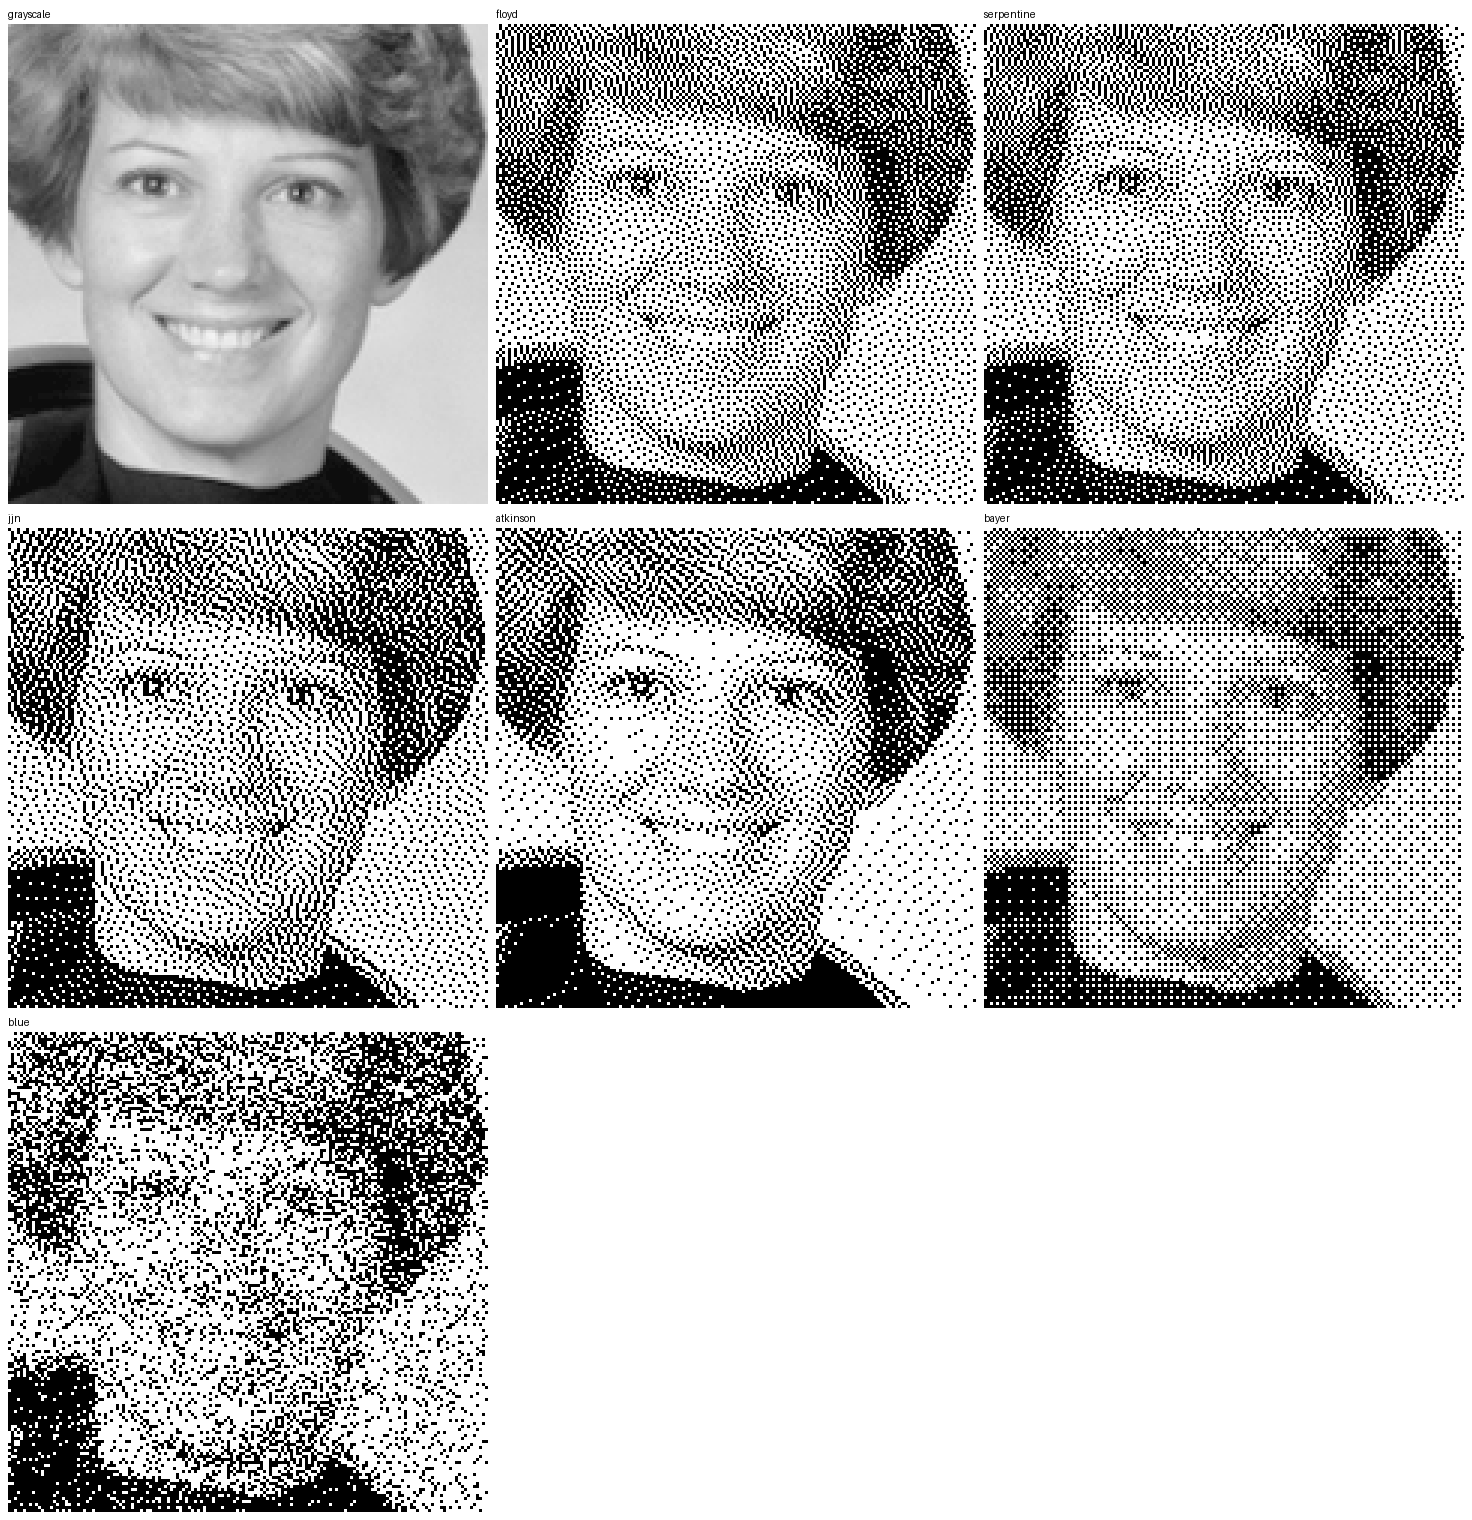
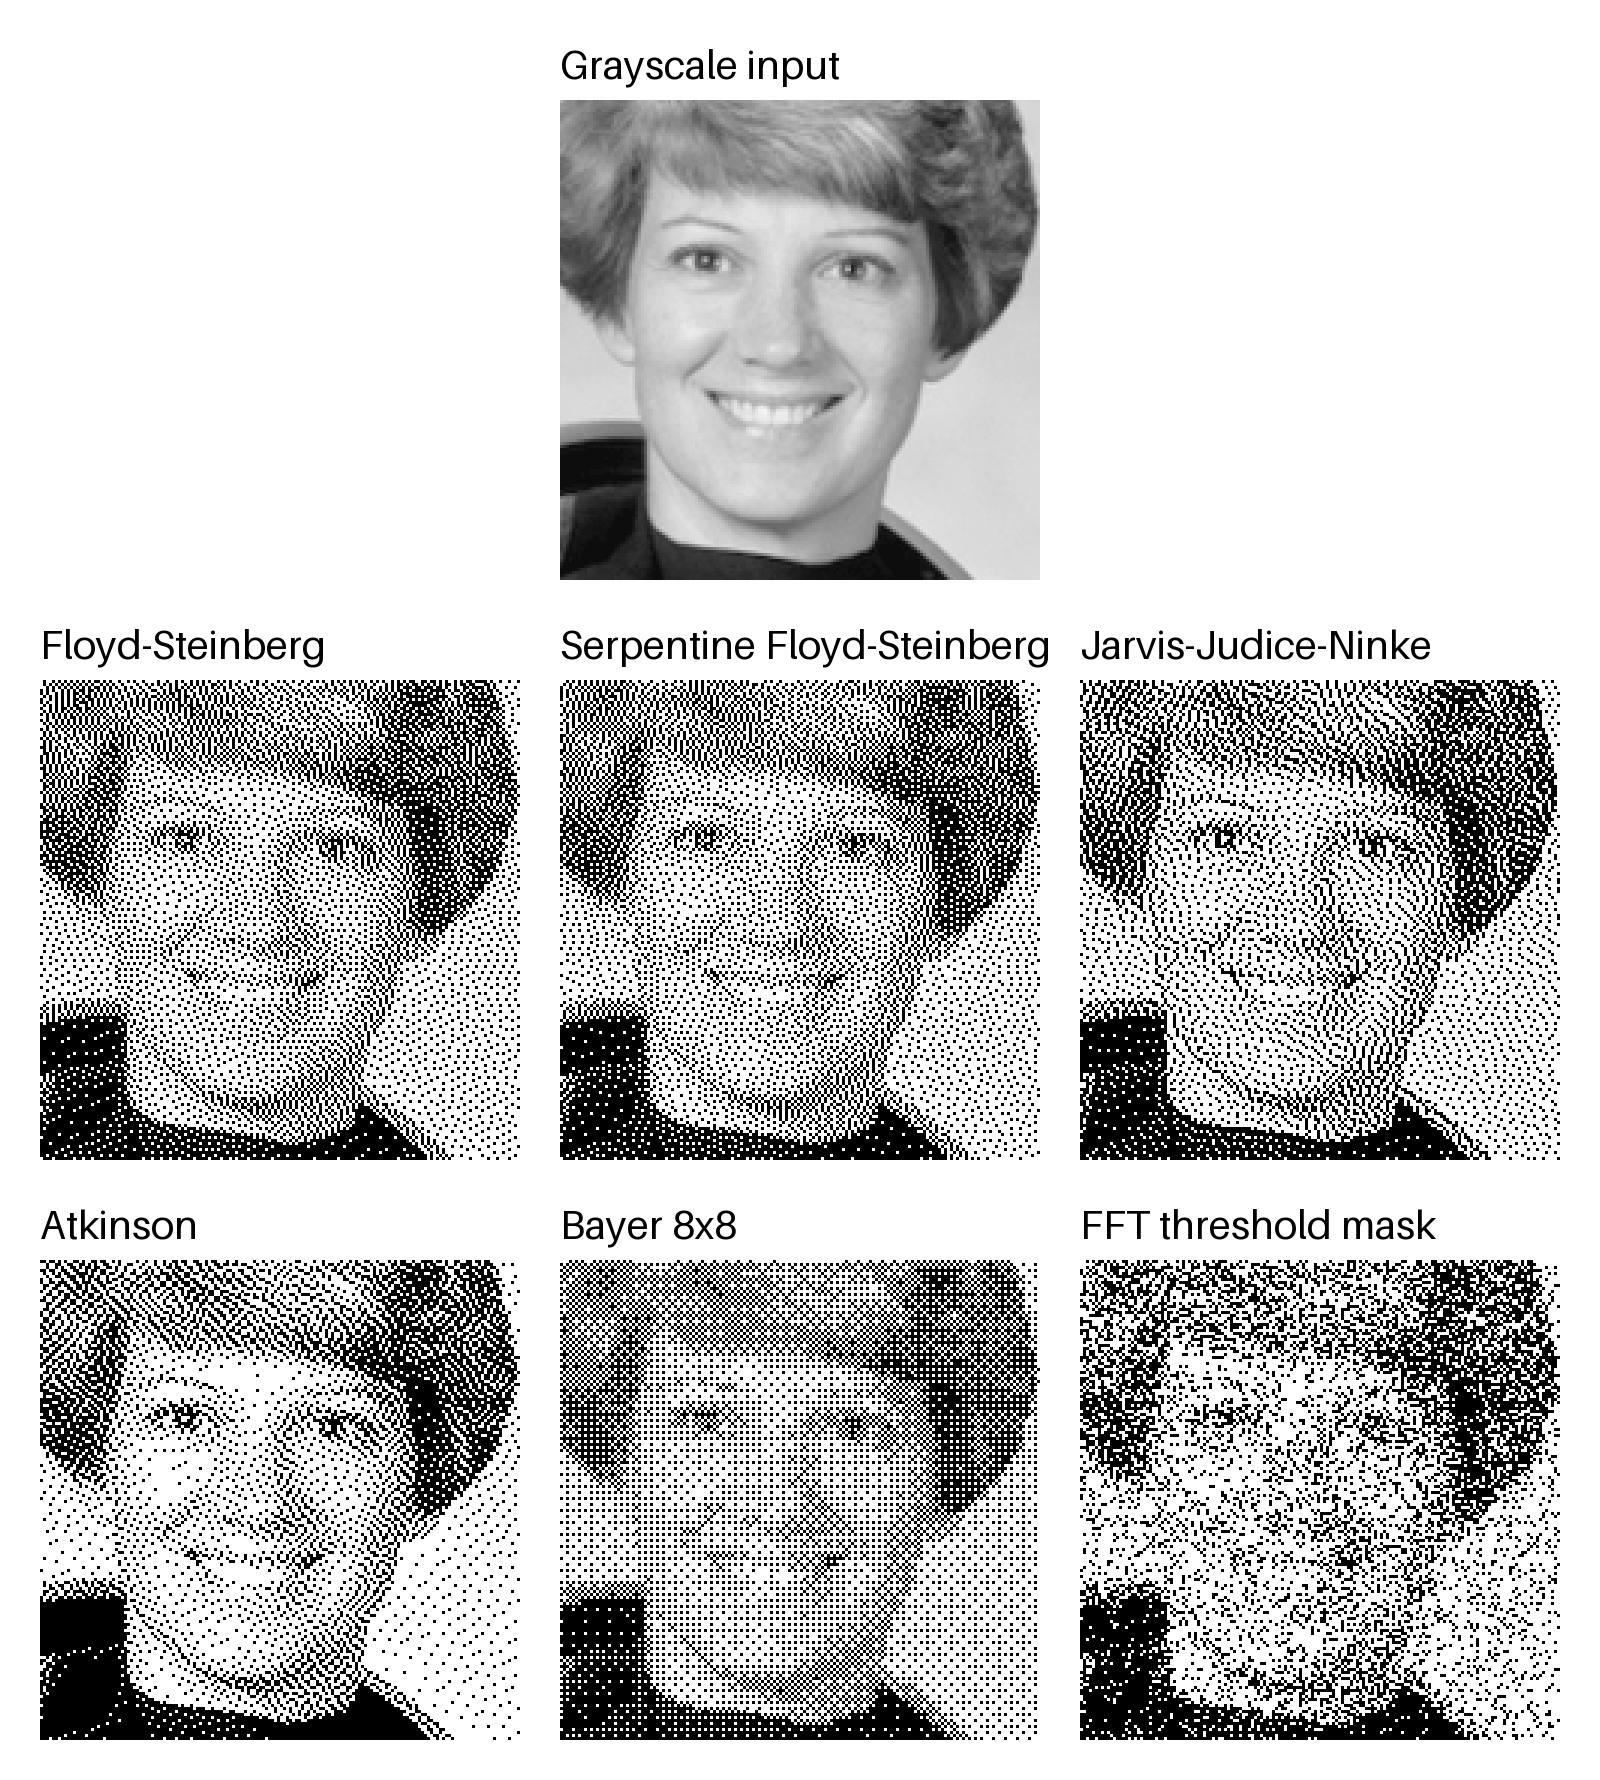
Enlarge detail-sheet labels and put the source crop on its own row

diff --git a/experiments/compare_dither.py b/experiments/compare_dither.py
@@ -96,22 +96,42 @@ METHODS = {
 }
 
 
-def detail_sheet(images, box, scale, columns=3):
-    """Nearest-neighbour enlarged crops so individual dots stay visible on screen."""
+LABELS = {
+    "grayscale": "Grayscale input",
+    "floyd": "Floyd-Steinberg",
+    "serpentine": "Serpentine Floyd-Steinberg",
+    "jjn": "Jarvis-Judice-Ninke",
+    "atkinson": "Atkinson",
+    "bayer": "Bayer 8x8",
+    "blue": "FFT threshold mask",
+}
+
+
+def detail_sheet(source, images, box, scale, columns=3):
+    """Source crop on the first row, then dithered crops in a grid.
+
+    Crops are enlarged with nearest-neighbour scaling so individual dots stay visible.
+    """
     left, top, size = box
-    label_h, pad = 16, 8
     cell = size * scale
-    rows = (len(images) + columns - 1) // columns
-    sheet = Image.new("L", (columns * (cell + pad) + pad, rows * (cell + label_h + pad) + pad), 255)
+    font = ImageFont.load_default(size=max(16, cell // 12))
+    label_h = font.size + font.size // 2
+    pad = font.size
+    rows = 1 + (len(images) + columns - 1) // columns
+    width = columns * (cell + pad) + pad
+    sheet = Image.new("L", (width, rows * (cell + label_h + pad) + pad), 255)
     draw = ImageDraw.Draw(sheet)
-    font = ImageFont.load_default()
-    for i, (name, image) in enumerate(images):
+
+    def place(name, image, x, y):
         crop = image.convert("L").crop((left, top, left + size, top + size))
-        crop = crop.resize((cell, cell), Image.Resampling.NEAREST)
+        sheet.paste(crop.resize((cell, cell), Image.Resampling.NEAREST), (x, y + label_h))
+        draw.text((x, y), LABELS.get(name, name), fill=0, font=font)
+
+    place(source[0], source[1], (width - cell) // 2, pad)
+    for i, (name, image) in enumerate(images):
         x = pad + (i % columns) * (cell + pad)
-        y = pad + (i // columns) * (cell + label_h + pad)
-        draw.text((x, y), name, fill=0, font=font)
-        sheet.paste(crop, (x, y + label_h))
+        y = pad + (1 + i // columns) * (cell + label_h + pad)
+        place(name, image, x, y)
     return sheet
 
 
@@ -144,7 +164,7 @@ def main():
 
     if args.detail:
         path = args.output / "detail.png"
-        detail_sheet([("grayscale", gray)] + results, args.detail, args.detail_scale).save(path, optimize=True)
+        detail_sheet(("grayscale", gray), results, args.detail, args.detail_scale).save(path, optimize=True)
         print(f"  Saved: {path}")
 
     if not args.do_print:
